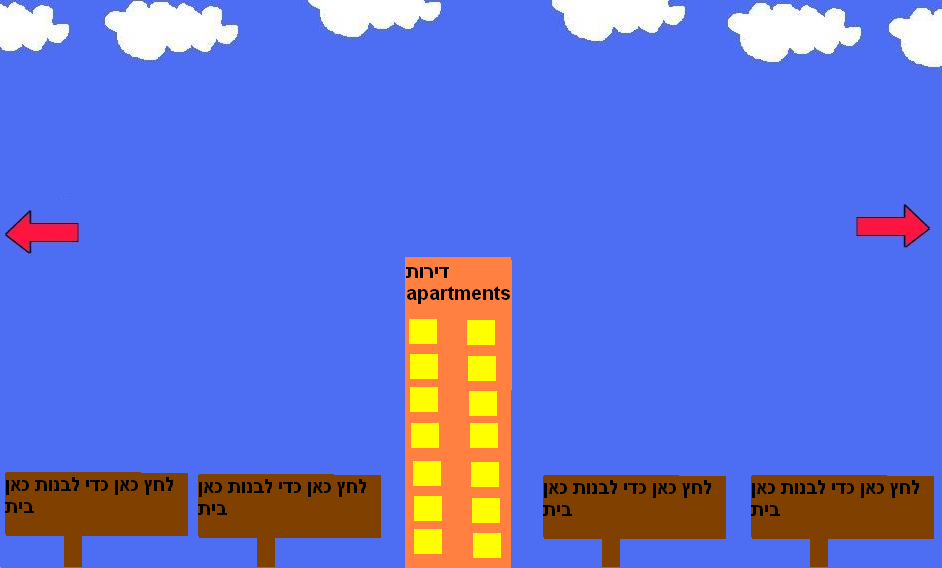
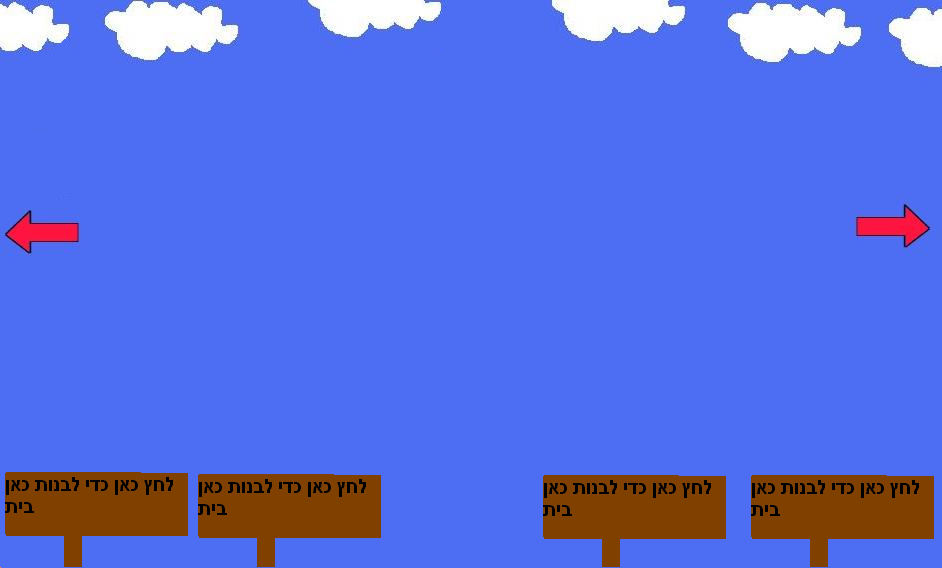
Roads And More...

Changed region(s): [[0.431, 0.4489, 0.5541, 1.0]]

diff --git a/system/application/views/mainpage_view.php b/system/application/views/mainpage_view.php
@@ -5,11 +5,26 @@
 ?>
 
 		<div dir='rtl' align="center">
-		<div style="background: blue; width: 250; font-family: Arial;">
-		<font color="White"><b>דברים קטנים נוספים</b></font></div>
-		<a href="images"><img src="<?php echo base_url(); ?>images/images.png"></a>
+		<br>
+		<div style="background: cyan; width: 900; font-family: Arial;">
+		<b>חדשות האתר</b>
+		<br>
+		<br>
+		חדש האתר החדש יצא!!!!! מזל טוב לאתר
+		<br>
+		<br>
+		האתר הזה הוא אתר חדש לכן עם אתם מוצאים באגים אז תודיעו לנו שלחו לאימייל: bugsreport@funworldlife.com
+		ואנחנו נתקן אותם וגם מי שישלך לי באג וזה זה יהיה באג רציני אז הוא יקבל 100 Fun-Coins :)
+		<br>
+		<br>
+		תודה רבה רבה לכל מי שהודיע לי שיש באג
+		<br>
+		<br>
+		
 		</div>
-		<br><hr>
+		
+		</div>
+		<br>
 		<?php $this->load->view("footer.php", $title) ?>
 	</body>
 </html>

diff --git a/system/application/controllers/road6.php b/system/application/controllers/road6.php
@@ -1,0 +1,54 @@
+<?php
+require "Funworldlife.php";
+
+class Road6 extends Funworldlife {
+	function index()
+	{
+		global $map;
+		global $map_file;
+		parent::show_map('Funworldlife - רחוב שישי', $map, $map_file, "road6");
+	}
+}
+
+$map_file = array (
+	"file" => "Road_6.png",
+	"width" => 945,
+	"height" => 568
+);
+
+$map = array(
+	
+	
+	array( 
+		"id" =>  "Apartments", 
+		"href" => "apartments2", 
+		"title" => "דירות",
+		"left" => 835, 
+		"top" => 255, 
+		"width" => 107, 
+		"height" => 313 
+	),
+		
+	array( 
+		"id" =>  "arrow_left", 
+		"href" => "road5", 
+		"title" => "לרחוב הקודם",
+		"left" => 0, 
+		"top" => 191, 
+		"width" => 89, 
+		"height" => 63
+	),	
+	
+	array( 
+		"id" =>  "arrow_right", 
+		"href" => "road7", 
+		"title" => "לרחוב הבא",
+		"left" => 851, 
+		"top" => 86, 
+		"width" => 91, 
+		"height" => 55
+	),	
+
+);
+
+?>
